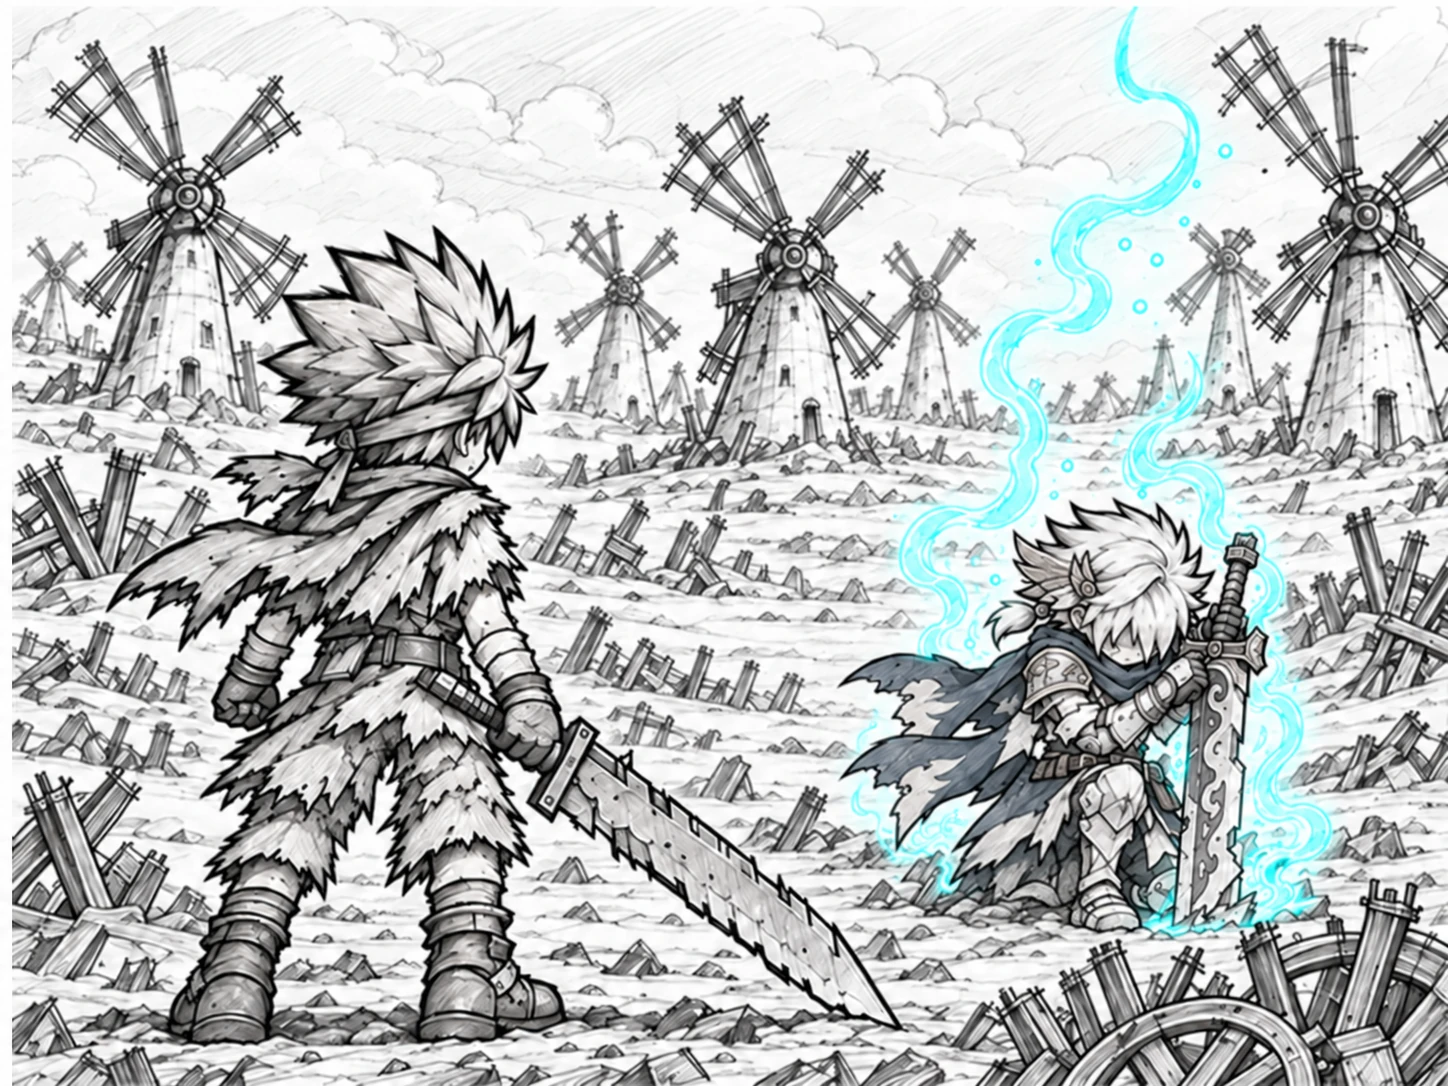
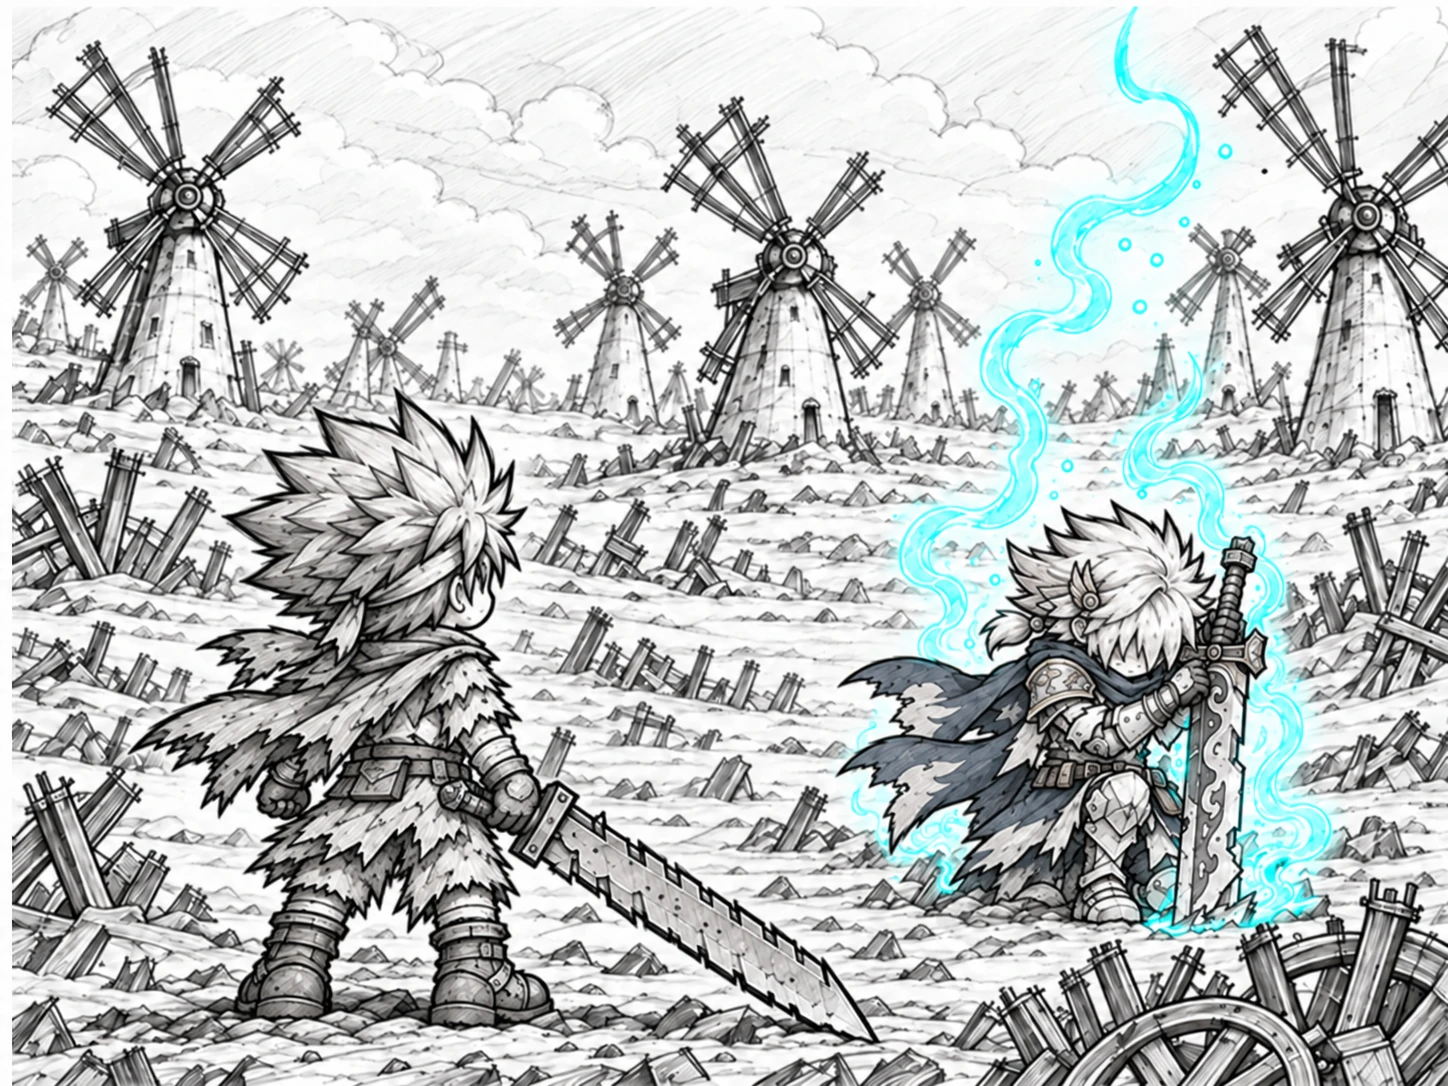
반전 1 최종 그림 (캐릭터 비율 수정본) + 러스트 알론소 흔들림 위치 맞춤
Claude-Session: https://claude.ai/code/session_01UsiBrPk9kwis6B71C6gGhW

diff --git a/assets/art/story/live/scenes.js b/assets/art/story/live/scenes.js
@@ -4,9 +4,9 @@
    fx: 원본의 빛 위에 겹치는 이펙트(화면 더하기) · emit: 입자 */
 window.LM_LIVE={
 reveal_01:{img:'../reveal_01.webp',cam:{z:1.05,x:70,y:60},
-  move:[{t:'breathe',x:380,y:700,rx:250,ry:420,an:1030,a:.005,f:.25},
-        {t:'hair',x:400,y:300,rx:160,ry:120,an:390,a:2.5,f:.35},
-        {t:'flag',x:230,y:470,rx:150,ry:100,an:330,a:3,f:.4},
+  move:[{t:'breathe',x:400,y:730,rx:240,ry:330,an:1010,a:.005,f:.25},
+        {t:'hair',x:380,y:470,rx:160,ry:120,an:560,a:2.5,f:.35},
+        {t:'flag',x:210,y:710,rx:130,ry:90,an:320,a:3,f:.4},
         {t:'breathe',x:1100,y:800,rx:170,ry:210,an:1000,a:.007,f:.2},
         {t:'hair',x:1090,y:520,rx:110,ry:85,an:585,a:2.5,f:.3,ph:1},
         {t:'flag',x:930,y:720,rx:120,ry:110,an:1060,a:3,f:.35,ph:2}],
